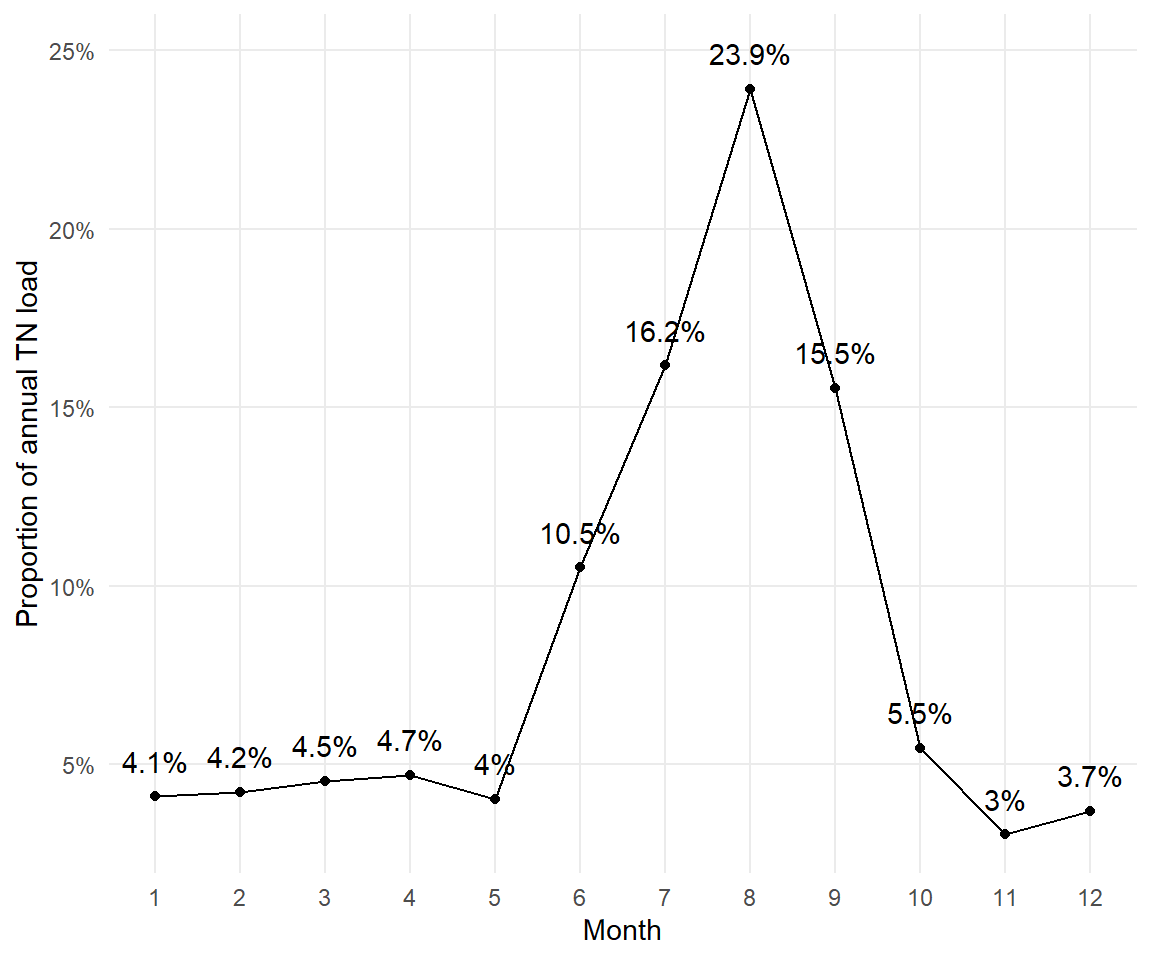
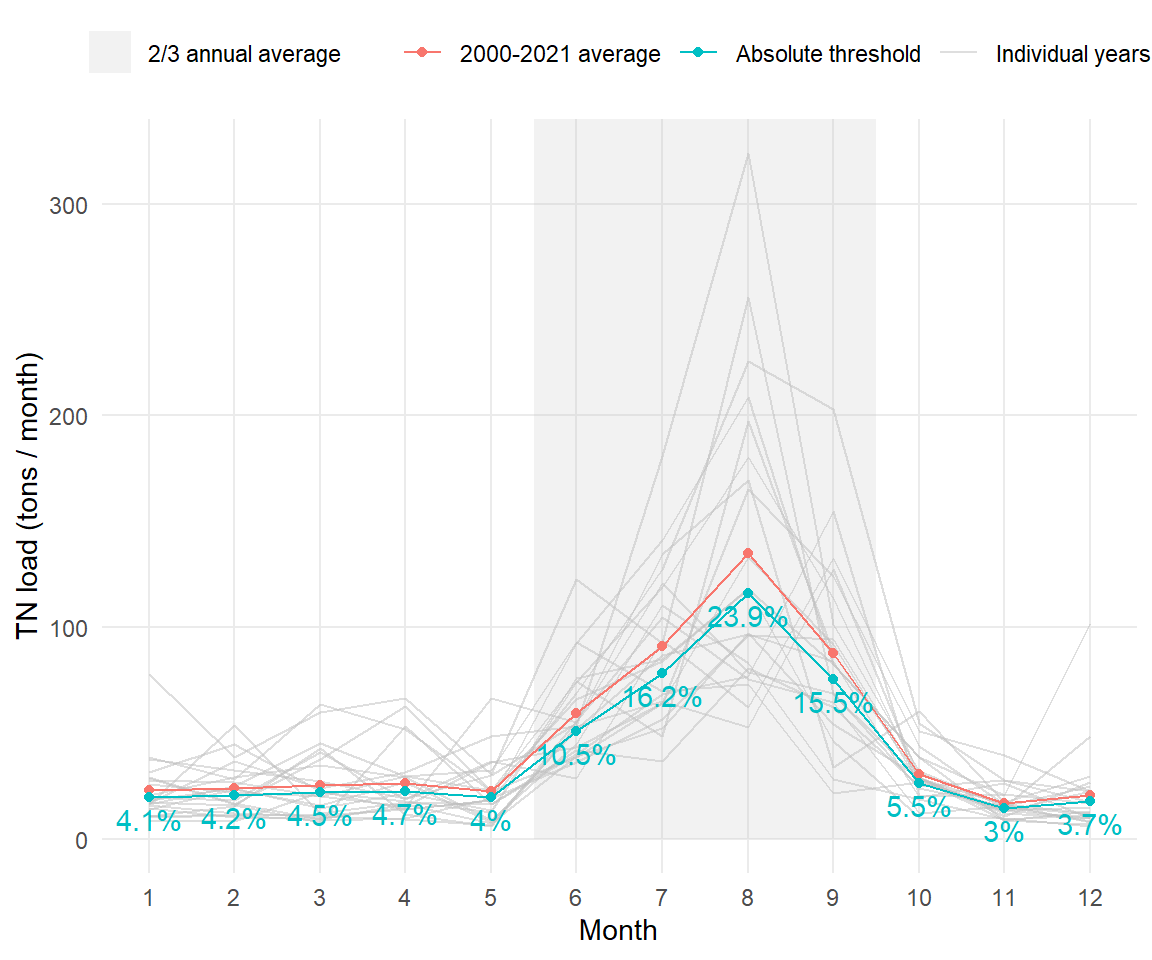
redo load annual avg plot on chlmoattain

diff --git a/docs/chlmoattain.html b/docs/chlmoattain.html
@@ -140,28 +140,48 @@ pre > code.sourceCode > span > a:first-child::before { text-decoration: underlin
 <summary>Code</summary>
 <div class="sourceCode cell-code" id="cb2"><pre class="sourceCode r code-with-copy"><code class="sourceCode r"><span id="cb2-1"><a href="#cb2-1" aria-hidden="true" tabindex="-1"></a>ldplo <span class="ot">&lt;-</span> lddat <span class="sc">|&gt;</span> </span>
 <span id="cb2-2"><a href="#cb2-2" aria-hidden="true" tabindex="-1"></a>  <span class="fu">summarise</span>(</span>
-<span id="cb2-3"><a href="#cb2-3" aria-hidden="true" tabindex="-1"></a>    <span class="at">load =</span> <span class="fu">sum</span>(load, <span class="at">na.rm =</span> T), </span>
-<span id="cb2-4"><a href="#cb2-4" aria-hidden="true" tabindex="-1"></a>    <span class="at">.by =</span> mo</span>
-<span id="cb2-5"><a href="#cb2-5" aria-hidden="true" tabindex="-1"></a>  ) <span class="sc">|&gt;</span> </span>
-<span id="cb2-6"><a href="#cb2-6" aria-hidden="true" tabindex="-1"></a>  <span class="fu">mutate</span>(</span>
-<span id="cb2-7"><a href="#cb2-7" aria-hidden="true" tabindex="-1"></a>    <span class="at">load =</span> load <span class="sc">/</span> <span class="fu">sum</span>(load),</span>
-<span id="cb2-8"><a href="#cb2-8" aria-hidden="true" tabindex="-1"></a>    <span class="at">lab =</span> <span class="fu">paste0</span>(<span class="fu">round</span>(<span class="dv">100</span> <span class="sc">*</span> load, <span class="dv">1</span>), <span class="st">'%'</span>)</span>
-<span id="cb2-9"><a href="#cb2-9" aria-hidden="true" tabindex="-1"></a>  )</span>
-<span id="cb2-10"><a href="#cb2-10" aria-hidden="true" tabindex="-1"></a>  </span>
-<span id="cb2-11"><a href="#cb2-11" aria-hidden="true" tabindex="-1"></a><span class="fu">ggplot</span>(ldplo, <span class="fu">aes</span>(<span class="at">x =</span> mo, <span class="at">y =</span> load)) <span class="sc">+</span> </span>
-<span id="cb2-12"><a href="#cb2-12" aria-hidden="true" tabindex="-1"></a>  <span class="fu">geom_line</span>() <span class="sc">+</span> </span>
-<span id="cb2-13"><a href="#cb2-13" aria-hidden="true" tabindex="-1"></a>  <span class="fu">geom_point</span>() <span class="sc">+</span> </span>
-<span id="cb2-14"><a href="#cb2-14" aria-hidden="true" tabindex="-1"></a>  <span class="fu">geom_text</span>(<span class="fu">aes</span>(<span class="at">label =</span> lab), <span class="at">nudge_y =</span> <span class="fl">0.01</span>) <span class="sc">+</span></span>
-<span id="cb2-15"><a href="#cb2-15" aria-hidden="true" tabindex="-1"></a>  <span class="fu">labs</span>(</span>
-<span id="cb2-16"><a href="#cb2-16" aria-hidden="true" tabindex="-1"></a>    <span class="at">x =</span> <span class="st">'Month'</span>, </span>
-<span id="cb2-17"><a href="#cb2-17" aria-hidden="true" tabindex="-1"></a>    <span class="at">y =</span> <span class="st">'Proportion of annual TN load'</span></span>
-<span id="cb2-18"><a href="#cb2-18" aria-hidden="true" tabindex="-1"></a>  ) <span class="sc">+</span> </span>
-<span id="cb2-19"><a href="#cb2-19" aria-hidden="true" tabindex="-1"></a>  <span class="fu">scale_y_continuous</span>(<span class="at">labels =</span> scales<span class="sc">::</span>percent) <span class="sc">+</span></span>
-<span id="cb2-20"><a href="#cb2-20" aria-hidden="true" tabindex="-1"></a>  <span class="fu">scale_x_continuous</span>(<span class="at">breaks =</span> <span class="dv">1</span><span class="sc">:</span><span class="dv">12</span>) <span class="sc">+</span></span>
-<span id="cb2-21"><a href="#cb2-21" aria-hidden="true" tabindex="-1"></a>  <span class="fu">theme_minimal</span>() <span class="sc">+</span></span>
-<span id="cb2-22"><a href="#cb2-22" aria-hidden="true" tabindex="-1"></a>  <span class="fu">theme</span>(</span>
-<span id="cb2-23"><a href="#cb2-23" aria-hidden="true" tabindex="-1"></a>    <span class="at">panel.grid.minor =</span> <span class="fu">element_blank</span>()</span>
-<span id="cb2-24"><a href="#cb2-24" aria-hidden="true" tabindex="-1"></a>  )</span></code><button title="Copy to Clipboard" class="code-copy-button"><i class="bi"></i></button></pre></div>
+<span id="cb2-3"><a href="#cb2-3" aria-hidden="true" tabindex="-1"></a>    <span class="at">load_av =</span> <span class="fu">mean</span>(load, <span class="at">na.rm =</span> T), </span>
+<span id="cb2-4"><a href="#cb2-4" aria-hidden="true" tabindex="-1"></a>    <span class="at">load_hi =</span> <span class="fu">t.test</span>(load)<span class="sc">$</span>conf.int[<span class="dv">2</span>], </span>
+<span id="cb2-5"><a href="#cb2-5" aria-hidden="true" tabindex="-1"></a>    <span class="at">load_lo =</span> <span class="fu">t.test</span>(load)<span class="sc">$</span>conf.int[<span class="dv">1</span>],</span>
+<span id="cb2-6"><a href="#cb2-6" aria-hidden="true" tabindex="-1"></a>    <span class="at">.by =</span> mo</span>
+<span id="cb2-7"><a href="#cb2-7" aria-hidden="true" tabindex="-1"></a>  ) <span class="sc">|&gt;</span> </span>
+<span id="cb2-8"><a href="#cb2-8" aria-hidden="true" tabindex="-1"></a>  <span class="fu">mutate</span>(</span>
+<span id="cb2-9"><a href="#cb2-9" aria-hidden="true" tabindex="-1"></a>    <span class="at">load_pc =</span> load_av <span class="sc">/</span> <span class="fu">sum</span>(load_av),</span>
+<span id="cb2-10"><a href="#cb2-10" aria-hidden="true" tabindex="-1"></a>    <span class="at">load_486 =</span> <span class="dv">486</span> <span class="sc">*</span> load_pc,</span>
+<span id="cb2-11"><a href="#cb2-11" aria-hidden="true" tabindex="-1"></a>    <span class="at">lab =</span> <span class="fu">paste0</span>(<span class="fu">round</span>(<span class="dv">100</span> <span class="sc">*</span> load_pc, <span class="dv">1</span>), <span class="st">'%'</span>)</span>
+<span id="cb2-12"><a href="#cb2-12" aria-hidden="true" tabindex="-1"></a>  )</span>
+<span id="cb2-13"><a href="#cb2-13" aria-hidden="true" tabindex="-1"></a></span>
+<span id="cb2-14"><a href="#cb2-14" aria-hidden="true" tabindex="-1"></a>ldplo1 <span class="ot">&lt;-</span> ldplo <span class="sc">|&gt;</span> </span>
+<span id="cb2-15"><a href="#cb2-15" aria-hidden="true" tabindex="-1"></a>  <span class="fu">select</span>(mo, load_av, load_486) <span class="sc">|&gt;</span> </span>
+<span id="cb2-16"><a href="#cb2-16" aria-hidden="true" tabindex="-1"></a>  <span class="fu">pivot_longer</span>(<span class="sc">-</span>mo) <span class="sc">|&gt;</span></span>
+<span id="cb2-17"><a href="#cb2-17" aria-hidden="true" tabindex="-1"></a>  <span class="fu">mutate</span>(</span>
+<span id="cb2-18"><a href="#cb2-18" aria-hidden="true" tabindex="-1"></a>    <span class="at">name =</span> <span class="fu">factor</span>(name, <span class="at">levels =</span> <span class="fu">c</span>(<span class="st">'load_av'</span>, <span class="st">'load_486'</span>), </span>
+<span id="cb2-19"><a href="#cb2-19" aria-hidden="true" tabindex="-1"></a>                 <span class="at">labels =</span> <span class="fu">c</span>(<span class="st">'2000-2021 average'</span>, <span class="st">'Absolute threshold'</span>)</span>
+<span id="cb2-20"><a href="#cb2-20" aria-hidden="true" tabindex="-1"></a>    )</span>
+<span id="cb2-21"><a href="#cb2-21" aria-hidden="true" tabindex="-1"></a>  )</span>
+<span id="cb2-22"><a href="#cb2-22" aria-hidden="true" tabindex="-1"></a></span>
+<span id="cb2-23"><a href="#cb2-23" aria-hidden="true" tabindex="-1"></a><span class="fu">ggplot</span>(ldplo1, <span class="fu">aes</span>(<span class="at">x =</span> mo)) <span class="sc">+</span> </span>
+<span id="cb2-24"><a href="#cb2-24" aria-hidden="true" tabindex="-1"></a>  <span class="fu">geom_rect</span>(<span class="at">data =</span> ldplo1[<span class="dv">1</span>, ], <span class="fu">aes</span>(<span class="at">xmin =</span> <span class="fl">5.5</span>, <span class="at">xmax =</span> <span class="fl">9.5</span>, <span class="at">ymin =</span> <span class="dv">0</span>, <span class="at">ymax =</span> <span class="cn">Inf</span>, <span class="at">fill =</span> <span class="st">'2/3 annual average'</span>), <span class="at">alpha =</span> <span class="fl">0.2</span>) <span class="sc">+</span></span>
+<span id="cb2-25"><a href="#cb2-25" aria-hidden="true" tabindex="-1"></a>  <span class="fu">geom_line</span>(<span class="at">data =</span> lddat, <span class="fu">aes</span>(<span class="at">y =</span> load, <span class="at">group =</span> yr, <span class="at">color =</span> <span class="st">'Individual years'</span>), <span class="at">alpha =</span> <span class="fl">0.5</span>) <span class="sc">+</span></span>
+<span id="cb2-26"><a href="#cb2-26" aria-hidden="true" tabindex="-1"></a>  <span class="fu">geom_line</span>(<span class="fu">aes</span>(<span class="at">y =</span> value, <span class="at">color =</span> name)) <span class="sc">+</span> </span>
+<span id="cb2-27"><a href="#cb2-27" aria-hidden="true" tabindex="-1"></a>  <span class="fu">geom_point</span>(<span class="fu">aes</span>(<span class="at">y =</span> value, <span class="at">color =</span> name)) <span class="sc">+</span></span>
+<span id="cb2-28"><a href="#cb2-28" aria-hidden="true" tabindex="-1"></a>  <span class="co"># geom_errorbar(data = ldplo, aes(ymin = load_lo, ymax = load_hi), width = 0)</span></span>
+<span id="cb2-29"><a href="#cb2-29" aria-hidden="true" tabindex="-1"></a>  <span class="fu">geom_text</span>(<span class="at">data =</span> ldplo, <span class="fu">aes</span>(<span class="at">label =</span> lab, <span class="at">y =</span> load_486), <span class="at">vjust =</span> <span class="fl">1.5</span>, <span class="at">color =</span> <span class="st">'#00BFC4'</span>) <span class="sc">+</span></span>
+<span id="cb2-30"><a href="#cb2-30" aria-hidden="true" tabindex="-1"></a>  <span class="fu">scale_color_manual</span>(<span class="at">values =</span> <span class="fu">c</span>(<span class="st">'#F8766D'</span>, <span class="st">'#00BFC4'</span>, <span class="st">'grey'</span>)) <span class="sc">+</span></span>
+<span id="cb2-31"><a href="#cb2-31" aria-hidden="true" tabindex="-1"></a>  <span class="fu">scale_fill_manual</span>(<span class="at">values =</span> <span class="st">"grey"</span>) <span class="sc">+</span></span>
+<span id="cb2-32"><a href="#cb2-32" aria-hidden="true" tabindex="-1"></a>  <span class="fu">labs</span>(</span>
+<span id="cb2-33"><a href="#cb2-33" aria-hidden="true" tabindex="-1"></a>    <span class="at">x =</span> <span class="st">'Month'</span>, </span>
+<span id="cb2-34"><a href="#cb2-34" aria-hidden="true" tabindex="-1"></a>    <span class="at">y =</span> <span class="st">'TN load (tons / month)'</span>, </span>
+<span id="cb2-35"><a href="#cb2-35" aria-hidden="true" tabindex="-1"></a>    <span class="at">color =</span> <span class="cn">NULL</span>, </span>
+<span id="cb2-36"><a href="#cb2-36" aria-hidden="true" tabindex="-1"></a>    <span class="at">fill =</span> <span class="cn">NULL</span></span>
+<span id="cb2-37"><a href="#cb2-37" aria-hidden="true" tabindex="-1"></a>  ) <span class="sc">+</span> </span>
+<span id="cb2-38"><a href="#cb2-38" aria-hidden="true" tabindex="-1"></a>  <span class="co"># scale_y_continuous(labels = scales::percent) +</span></span>
+<span id="cb2-39"><a href="#cb2-39" aria-hidden="true" tabindex="-1"></a>  <span class="fu">scale_x_continuous</span>(<span class="at">breaks =</span> <span class="dv">1</span><span class="sc">:</span><span class="dv">12</span>) <span class="sc">+</span></span>
+<span id="cb2-40"><a href="#cb2-40" aria-hidden="true" tabindex="-1"></a>  <span class="fu">theme_minimal</span>() <span class="sc">+</span></span>
+<span id="cb2-41"><a href="#cb2-41" aria-hidden="true" tabindex="-1"></a>  <span class="fu">theme</span>(</span>
+<span id="cb2-42"><a href="#cb2-42" aria-hidden="true" tabindex="-1"></a>    <span class="at">panel.grid.minor =</span> <span class="fu">element_blank</span>(), </span>
+<span id="cb2-43"><a href="#cb2-43" aria-hidden="true" tabindex="-1"></a>    <span class="at">legend.position =</span> <span class="st">'top'</span></span>
+<span id="cb2-44"><a href="#cb2-44" aria-hidden="true" tabindex="-1"></a>  )</span></code><button title="Copy to Clipboard" class="code-copy-button"><i class="bi"></i></button></pre></div>
 </details>
 <div class="cell-output-display">
 <div>
@@ -993,7 +1013,7 @@ window.document.addEventListener("DOMContentLoaded", function (event) {
 });
 </script>
 </div> <!-- /content -->
-<script>var lightboxQuarto = GLightbox({"descPosition":"bottom","closeEffect":"zoom","openEffect":"zoom","loop":false,"selector":".lightbox"});
+<script>var lightboxQuarto = GLightbox({"selector":".lightbox","descPosition":"bottom","loop":false,"openEffect":"zoom","closeEffect":"zoom"});
 window.onload = () => {
   lightboxQuarto.on('slide_before_load', (data) => {
     const { slideIndex, slideNode, slideConfig, player, trigger } = data;
